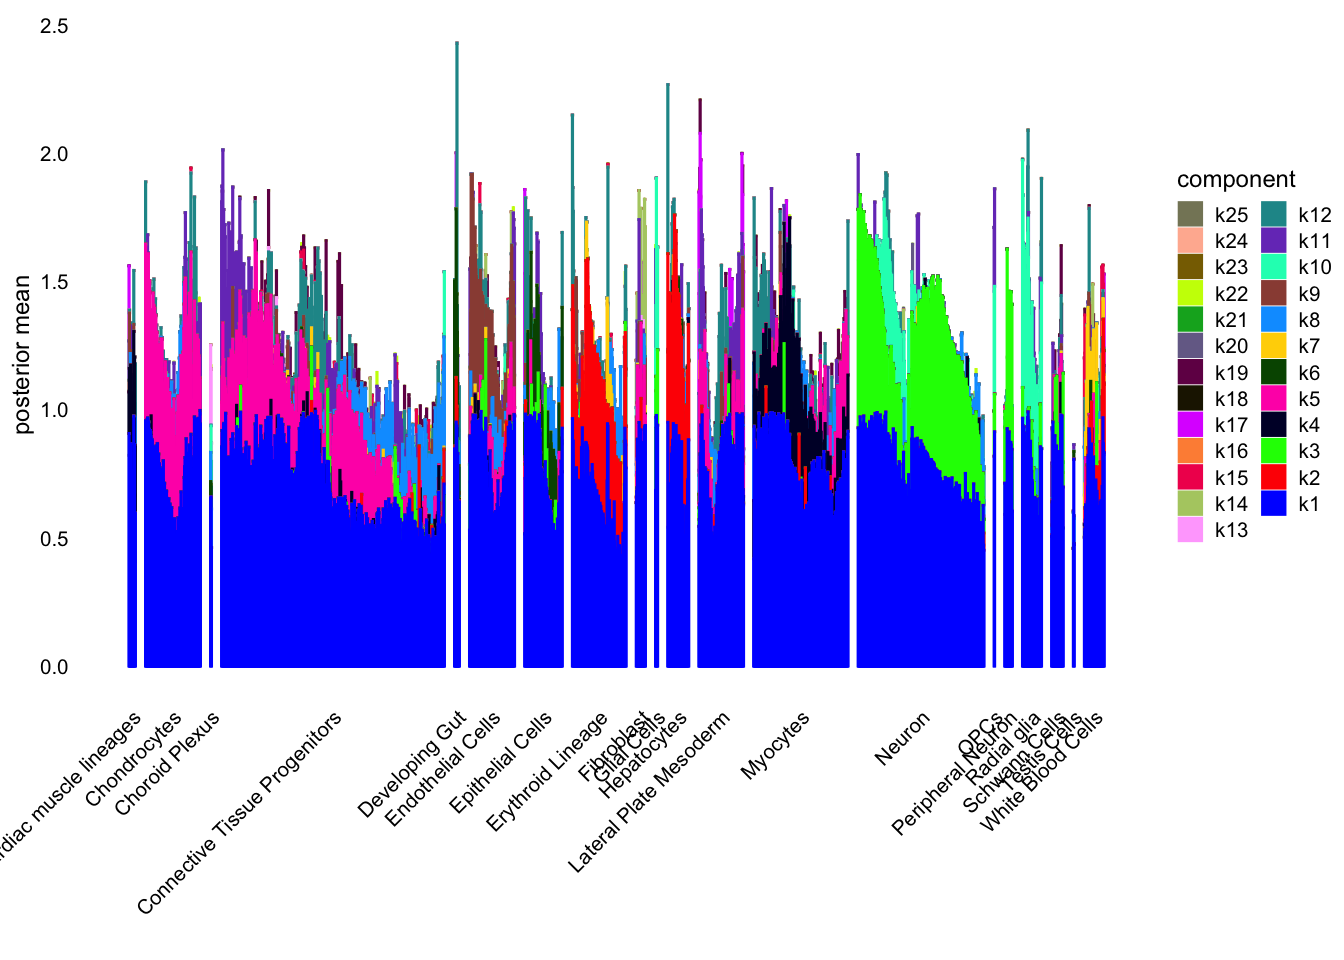
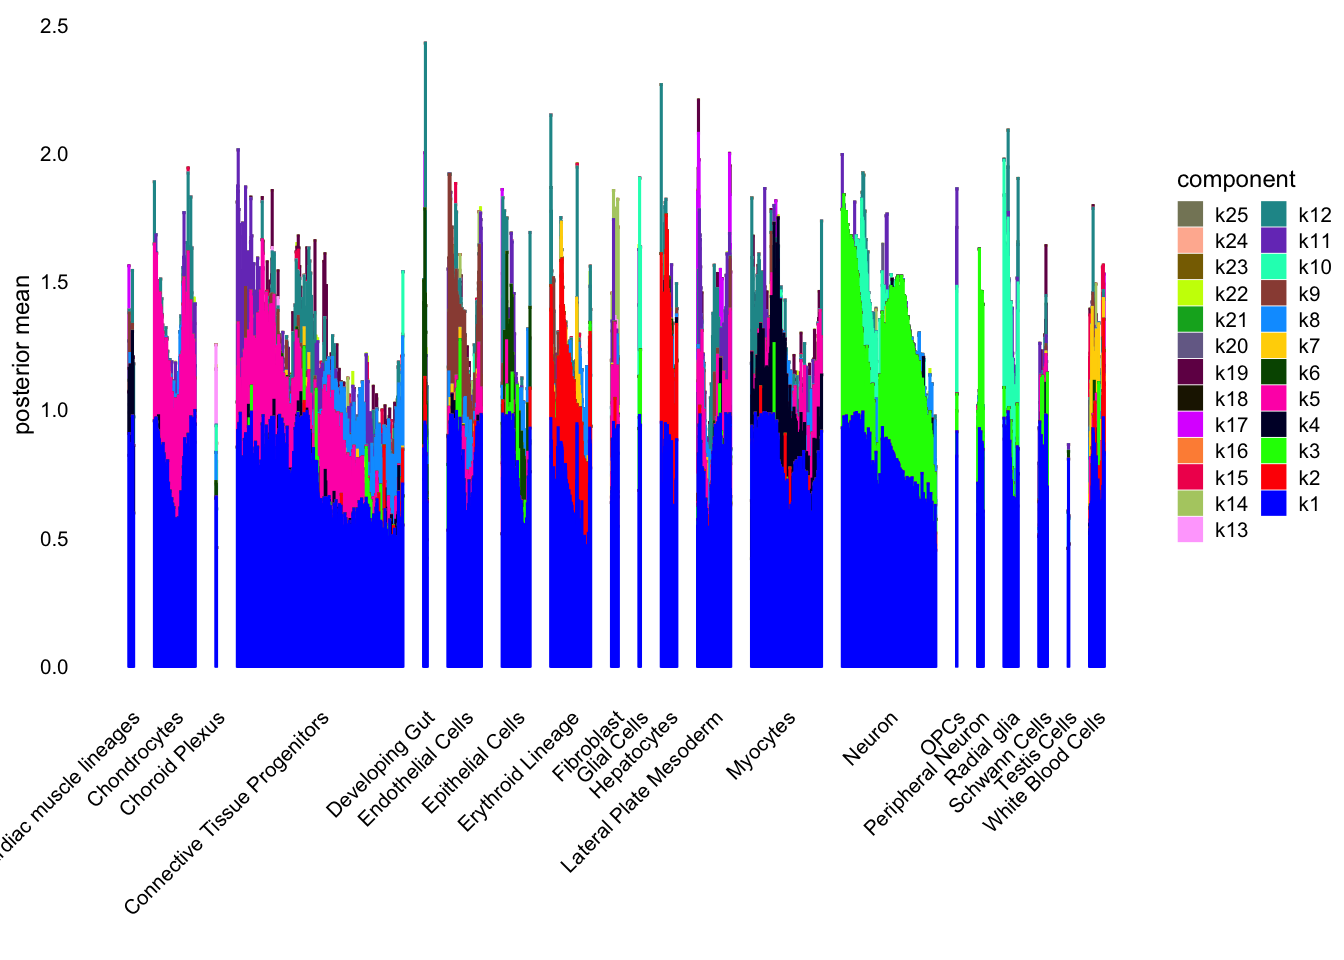
Build site.

diff --git a/docs/mouse_embryo.html b/docs/mouse_embryo.html
@@ -303,7 +303,7 @@ class="glyphicon glyphicon-ok text-success" aria-hidden="true"></span>
 <div class="tab-content">
 <div id="summary" class="tab-pane fade in active">
 <p>
-<strong>Last updated:</strong> 2024-11-15
+<strong>Last updated:</strong> 2024-11-18
 </p>
 <p>
 <strong>Checks:</strong> <span
@@ -435,15 +435,15 @@ project makes it easier to run your code on other machines.</p>
 <div class="panel panel-default">
 <div class="panel-heading">
 <p class="panel-title">
-<a data-toggle="collapse" data-parent="#workflowr-checks" href="#strongRepositoryversionstrongahrefhttpsgithubcomstephenslabsinglecelljamboreetree074ea5c2fff7ebc1e20caa84eaf044767a035ab7targetblank074ea5ca">
+<a data-toggle="collapse" data-parent="#workflowr-checks" href="#strongRepositoryversionstrongahrefhttpsgithubcomstephenslabsinglecelljamboreetreea70fb60a7ec2592fb7a02dfbafd40581573dff31targetblanka70fb60a">
 <span class="glyphicon glyphicon-ok text-success"
 aria-hidden="true"></span> <strong>Repository version:</strong>
-<a href="https://github.com/stephenslab/single-cell-jamboree/tree/074ea5c2fff7ebc1e20caa84eaf044767a035ab7" target="_blank">074ea5c</a>
+<a href="https://github.com/stephenslab/single-cell-jamboree/tree/a70fb60a7ec2592fb7a02dfbafd40581573dff31" target="_blank">a70fb60</a>
 </a>
 </p>
 </div>
 <div
[2 lines of base64/hex data omitted]
 class="panel-collapse collapse">
 <div class="panel-body">
 <p>
@@ -453,7 +453,7 @@ reproducibility.
 </p>
 <p>
 The results in this page were generated with repository version
-<a href="https://github.com/stephenslab/single-cell-jamboree/tree/074ea5c2fff7ebc1e20caa84eaf044767a035ab7" target="_blank">074ea5c</a>.
+<a href="https://github.com/stephenslab/single-cell-jamboree/tree/a70fb60a7ec2592fb7a02dfbafd40581573dff31" target="_blank">a70fb60</a>.
 See the <em>Past versions</em> tab to see a history of the changes made
 to the R Markdown and HTML files.
 </p>
@@ -468,6 +468,7 @@ were generated:
 </p>
 <pre><code>
 Ignored files:
+    Ignored:    .Rhistory
     Ignored:    .Rproj.user/
 
 Untracked files:
@@ -522,6 +523,40 @@ Message
 </tr>
 </thead>
 <tbody>
+<tr>
+<td>
+Rmd
+</td>
+<td>
+<a href="https://github.com/stephenslab/single-cell-jamboree/blob/a70fb60a7ec2592fb7a02dfbafd40581573dff31/analysis/mouse_embryo.Rmd" target="_blank">a70fb60</a>
+</td>
+<td>
+Ziang Zhang
+</td>
+<td>
+2024-11-18
+</td>
+<td>
+workflowr::wflow_publish("analysis/mouse_embryo.Rmd")
+</td>
+</tr>
+<tr>
+<td>
+html
+</td>
+<td>
+<a href="https://rawcdn.githack.com/stephenslab/single-cell-jamboree/070d27ca300bc5b1d13d24daf0e9169fca6e3994/docs/mouse_embryo.html" target="_blank">070d27c</a>
+</td>
+<td>
+Ziang Zhang
+</td>
+<td>
+2024-11-15
+</td>
+<td>
+Build site.
+</td>
+</tr>
 <tr>
 <td>
 Rmd
@@ -601,6 +636,9 @@ library(RColorBrewer)
 library(Biobase)
 library(ggpubr)
 library(gridExtra)
+library(fastTopics)
+source(&#39;../code/plot_loadings_on_umap.R&#39;)
+source(&quot;../code/Customized_Plots.R&quot;)
 seurat_object &lt;- readRDS(&quot;../data/mouse_embryo/processed_seurat/seurat_object.rds&quot;)
 Y &lt;- t(seurat_object$RNA$data)</code></pre>
 <p>The data contains the UMAP information that we can directly use for
@@ -608,8 +646,7 @@ visualization, and compare with the “anatomical annotation” and the
 “cluster label” in <a
 href="https://www.science.org/doi/10.1126/science.abb9536">Srivatsan et
 al, 2021</a>.</p>
-<pre class="r"><code>source(&quot;../code/Customized_Plots.R&quot;)
-umap_original_embeddings &lt;- cbind(seurat_object$umap1, seurat_object$umap2)
+<pre class="r"><code>umap_original_embeddings &lt;- cbind(seurat_object$umap1, seurat_object$umap2)
 p1 &lt;- DimPlotSagnik(umap_original_embeddings, group.by = seurat_object$anatomical_annotation, pt.size = 1) +
   theme(plot.title = element_text(hjust = 0.5)) +
   ggtitle(&quot;UMAP by Anatomical Annotation&quot;)
@@ -690,7 +727,7 @@ plot(flashier_fit_nn,
      plot_type = &quot;structure&quot;,
      pm_which = &quot;loadings&quot;, 
      pm_groups = seurat_object$final_cluster_label,
-     bins = 20, gap = 25)</code></pre>
+     bins = 20, gap = 70)</code></pre>
 <p><img src="figure/mouse_embryo.Rmd/unnamed-chunk-5-1.png" width="672" style="display: block; margin: auto;" /></p>
 <p>
 <button type="button" class="btn btn-default btn-xs btn-workflowr btn-workflowr-fig" data-toggle="collapse" data-target="#fig-unnamed-chunk-5-1">
@@ -750,7 +787,7 @@ plot(flashier_fit_semi,
      plot_type = &quot;structure&quot;,
      pm_which = &quot;loadings&quot;, 
      pm_groups = seurat_object$final_cluster_label,
-     bins = 20, gap = 25)</code></pre>
+     bins = 20, gap = 70)</code></pre>
 <p><img src="figure/mouse_embryo.Rmd/unnamed-chunk-7-1.png" width="672" style="display: block; margin: auto;" /></p>
 <p>
 <button type="button" class="btn btn-default btn-xs btn-workflowr btn-workflowr-fig" data-toggle="collapse" data-target="#fig-unnamed-chunk-7-1">
@@ -790,8 +827,8 @@ Ziang Zhang
 </div>
 </div>
 </div>
-<div id="gbcd" class="section level3">
-<h3>GBCD</h3>
+<div id="gb-semi-non-negative-ebmf" class="section level3">
+<h3>GB Semi Non-Negative EBMF</h3>
 <pre class="r"><code>ebnm_fn_list &lt;- list()
 ebnm_fn_list[[1]] &lt;- flash_ebnm(
   prior_family = &quot;generalized_binary&quot;
@@ -810,7 +847,7 @@ plot(flashier_fit_gbcd,
      plot_type = &quot;structure&quot;,
      pm_which = &quot;loadings&quot;, 
      pm_groups = seurat_object$final_cluster_label,
-     bins = 20, gap = 25)</code></pre>
+     bins = 20, gap = 70)</code></pre>
 <p><img src="figure/mouse_embryo.Rmd/unnamed-chunk-9-1.png" width="672" style="display: block; margin: auto;" /></p>
 <p>
 <button type="button" class="btn btn-default btn-xs btn-workflowr btn-workflowr-fig" data-toggle="collapse" data-target="#fig-unnamed-chunk-9-1">
@@ -850,15 +887,94 @@ Ziang Zhang
 </div>
 </div>
 </div>
+<div id="gbcd" class="section level3">
+<h3>GBCD</h3>
+<pre class="r"><code>res.gbcd &lt;- fit_gbcd(Y = Y, Kmax = 25, maxiter1 = 100,
+                     maxiter2 = 50, maxiter3 = 50, 
+                     prior = flash_ebnm(prior_family = &quot;generalized_binary&quot;,
+                                        scale = 0.04))
+saveRDS(res.gbcd, &quot;../output/mouse_embryo/res.gbcd.rds&quot;)</code></pre>
+</div>
 </div>
 <div id="trying-topic-models" class="section level2">
 <h2>Trying Topic Models</h2>
 <p>Then, let’s try fitting a topic model to this dataset using
 <code>FastTopics</code>.</p>
-<pre class="r"><code>library(fastTopics)
-fasttopics_fit &lt;- fit_topic_model(Y, k = 25)</code></pre>
-<p>(This requires larger amount of RAM than I expected… Will do this on
-the server and add the results later.)</p>
+<pre class="r"><code>fasttopics_fit &lt;- fit_topic_model(Y, k = 25)</code></pre>
+<p><img src="figure/mouse_embryo.Rmd/unnamed-chunk-14-1.png" width="672" style="display: block; margin: auto;" /></p>
+</div>
+<div id="summarize-structures-from-loadings" class="section level2">
+<h2>Summarize Structures from Loadings</h2>
+<p>There are some interesting structures of the loading based on the
+result of EBMF and FastTopics, that add new insights to the original
+UMAP visualization.</p>
+<div id="non-negative-ebmf-1" class="section level3">
+<h3>Non-negative EBMF</h3>
+<p>First, based on the non-negative EBMF result, there are some factors
+that are shared across multiple cell types. For example, the factors
+<span class="math inline">\(k10\)</span> and <span
+class="math inline">\(k3\)</span> are shared across multiple types of
+neurons and glial cells. The factor <span
+class="math inline">\(k5\)</span> is shared across Chondrocytes and
+Connective Tissue Progenitors. The factor <span
+class="math inline">\(k2\)</span> is shared across Erythroid Progenitors
+and Hepatocytes. On the other hand, there are also factors that are more
+specific to certain cell types, such as <span
+class="math inline">\(k9\)</span> for Endothelial Cells and <span
+class="math inline">\(k7\)</span> for White Blood Cells.</p>
+<p>Let’s take a look at how the UMAF plot looks if we color each cell
+based on its composition of these factors.</p>
+<p><img src="figure/mouse_embryo.Rmd/unnamed-chunk-15-1.png" width="672" style="display: block; margin: auto;" /></p>
+</div>
+<div id="semi-negative-ebmf" class="section level3">
+<h3>Semi-negative EBMF</h3>
+<p>The loadings from the semi-negative EBMF are more diverse, where each
+cell is composed of a larger number of factors. However, there are still
+both “unique” factor and “shared” factors across different cell
+types.</p>
+<p>For example, the factor <span class="math inline">\(k4\)</span> is
+shared across multiple types of neurons and glial cells. The factor
+<span class="math inline">\(k2\)</span> is shared across Erythroid
+Progenitors and Hepatocytes. The factor <span
+class="math inline">\(k3\)</span> are “mostly” unique to Myocytes and
+Cardiac Muscle, and <span class="math inline">\(k12\)</span> is unique
+to Chondrocytes.</p>
+<p><img src="figure/mouse_embryo.Rmd/unnamed-chunk-16-1.png" width="672" style="display: block; margin: auto;" /></p>
+</div>
+<div id="fasttopics" class="section level3">
+<h3>FastTopics</h3>
+<p>The result from FastTopics looks quite similar to the semi-negative
+EBMF, where each cell is composed of a larger number of factors.</p>
+<p>There are shared factors like <span
+class="math inline">\(k13\)</span> for Erythroid Progenitors and
+Hepatocytes, and <span class="math inline">\(k10\)</span> for Epithelial
+Cells and Developing Gut, as well as unique factors like <span
+class="math inline">\(k3\)</span> for Hepatocytes and <span
+class="math inline">\(k8\)</span> for White Blood Cells.</p>
+<p><img src="figure/mouse_embryo.Rmd/unnamed-chunk-17-1.png" width="672" style="display: block; margin: auto;" /></p>
+</div>
+</div>
+<div id="compare-these-methods" class="section level2">
+<h2>Compare these methods</h2>
+<ul>
+<li><p>The non-negative EBMF provides a kind of “cleaner composition” of
+each cell, where each cell is mostly composed of one base line factor
+and another factor that is ” kind of specific” to the cell type. This in
+a way demonstrates the advantage of the part-based representation (plus
+sparsity).</p></li>
+<li><p>The semi non-negative EBMF provides a more “diverse” composition
+of each cell, where each cell is composed of a base line factor and
+multiple other factors that may appear in different cell types. The
+compensate of the “diversity” is the computation of this problem tends
+to be a bit more stable than the non-negative EBMF.</p></li>
+<li><p>The FastTopics also provides a kind of diverse composition of
+each cell, where each cell is composed of multiple factors. This might
+be due to there is no sparsity constraint in the FastTopics
+model.</p></li>
+<li><p>Overall, they all found some quite interesting structures (shared
+or unique) that are not obvious from the original UMAP
+visualization.</p></li>
+</ul>
 <br>
 <p>
 <button type="button" class="btn btn-default btn-workflowr btn-workflowr-sessioninfo" data-toggle="collapse" data-target="#workflowr-sessioninfo" style="display: block;">
@@ -886,11 +1002,12 @@ attached base packages:
 [1] stats     graphics  grDevices utils     datasets  methods   base     
 
 other attached packages:
- [1] gridExtra_2.3       ggpubr_0.6.0        Biobase_2.62.0     
- [4] BiocGenerics_0.48.1 RColorBrewer_1.1-3  cowplot_1.1.3      
- [7] patchwork_1.3.0     ggplot2_3.5.1       flashier_1.0.54    
-[10] ebnm_1.1-34         data.table_1.16.2   Matrix_1.6-4       
-[13] Seurat_5.1.0        SeuratObject_5.0.2  sp_2.1-4           
+ [1] fastTopics_0.6-192  gridExtra_2.3       ggpubr_0.6.0       
+ [4] Biobase_2.62.0      BiocGenerics_0.48.1 RColorBrewer_1.1-3 
+ [7] cowplot_1.1.3       patchwork_1.3.0     ggplot2_3.5.1      
+[10] flashier_1.0.54     ebnm_1.1-34         data.table_1.16.2  
+[13] Matrix_1.6-4        Seurat_5.1.0        SeuratObject_5.0.2 
+[16] sp_2.1-4           
 
 loaded via a namespace (and not attached):
   [1] RcppAnnoy_0.0.22       splines_4.3.1          later_1.3.2           
@@ -903,44 +1020,44 @@ loaded via a namespace (and not attached):
  [22] sctransform_0.4.1      spam_2.11-0            spatstat.sparse_3.1-0 
  [25] reticulate_1.39.0      pbapply_1.7-2          abind_1.4-8           
  [28] Rtsne_0.17             quadprog_1.5-8         purrr_1.0.2           
- [31] git2r_0.33.0           fastTopics_0.6-192     ggrepel_0.9.6         
- [34] irlba_2.3.5.1          listenv_0.9.1          spatstat.utils_3.1-0  
- [37] goftest_1.2-3          RSpectra_0.16-2        spatstat.random_3.3-2 
- [40] fitdistrplus_1.2-1     parallelly_1.38.0      leiden_0.4.3.1        
- [43] codetools_0.2-20       tidyselect_1.2.1       farver_2.1.2          
- [46] matrixStats_1.4.1      spatstat.explore_3.3-3 jsonlite_1.8.9        
- [49] progressr_0.14.0       Formula_1.2-5          ggridges_0.5.6        
- [52] survival_3.7-0         tools_4.3.1            progress_1.2.3        
- [55] ica_1.0-3              Rcpp_1.0.13            glue_1.8.0            
- [58] xfun_0.48              dplyr_1.1.4            withr_3.0.1           
- [61] fastmap_1.2.0          fansi_1.0.6            digest_0.6.37         
- [64] truncnorm_1.0-9        R6_2.5.1               mime_0.12             
- [67] colorspace_2.1-1       scattermore_1.2        gtools_3.9.5          
- [70] tensor_1.5             spatstat.data_3.1-2    RhpcBLASctl_0.23-42   
- [73] utf8_1.2.4             tidyr_1.3.1            generics_0.1.3        
- [76] prettyunits_1.2.0      httr_1.4.7             htmlwidgets_1.6.4     
- [79] scatterplot3d_0.3-44   deconvolveR_1.2-1      whisker_0.4.1         
- [82] uwot_0.1.16            pkgconfig_2.0.3        gtable_0.3.5          
- [85] workflowr_1.7.1        lmtest_0.9-40          htmltools_0.5.8.1     
- [88] carData_3.0-5          dotCall64_1.2          horseshoe_0.2.0       
- [91] scales_1.3.0           png_0.1-8              spatstat.univar_3.0-1 
- [94] ashr_2.2-66            knitr_1.48             rstudioapi_0.16.0     
- [97] reshape2_1.4.4         nlme_3.1-166           cachem_1.1.0          
-[100] zoo_1.8-12             Polychrome_1.5.1       stringr_1.5.1         
-[103] KernSmooth_2.23-24     parallel_4.3.1         miniUI_0.1.1.1        
-[106] softImpute_1.4-1       pillar_1.9.0           grid_4.3.1            
-[109] vctrs_0.6.5            RANN_2.6.2             promises_1.3.0        
-[112] car_3.1-3              xtable_1.8-4           cluster_2.1.6         
-[115] evaluate_1.0.1         invgamma_1.1           cli_3.6.3             
-[118] compiler_4.3.1         rlang_1.1.4            crayon_1.5.3          
-[121] SQUAREM_2021.1         future.apply_1.11.2    ggsignif_0.6.4        
-[124] labeling_0.4.3         plyr_1.8.9             fs_1.6.4              
-[127] stringi_1.8.4          viridisLite_0.4.2      deldir_2.0-4          
-[130] munsell_0.5.1          lazyeval_0.2.2         spatstat.geom_3.3-3   
-[133] RcppHNSW_0.6.0         hms_1.1.3              future_1.34.0         
-[136] shiny_1.9.1            highr_0.11             trust_0.1-8           
-[139] ROCR_1.0-11            igraph_2.1.1           broom_1.0.7           
-[142] RcppParallel_5.1.9     bslib_0.8.0           </code></pre>
+ [31] git2r_0.33.0           ggrepel_0.9.6          irlba_2.3.5.1         
+ [34] listenv_0.9.1          spatstat.utils_3.1-0   goftest_1.2-3         
+ [37] RSpectra_0.16-2        spatstat.random_3.3-2  fitdistrplus_1.2-1    
+ [40] parallelly_1.38.0      leiden_0.4.3.1         codetools_0.2-20      
+ [43] tidyselect_1.2.1       farver_2.1.2           matrixStats_1.4.1     
+ [46] spatstat.explore_3.3-3 jsonlite_1.8.9         progressr_0.14.0      
+ [49] Formula_1.2-5          ggridges_0.5.6         survival_3.7-0        
+ [52] tools_4.3.1            progress_1.2.3         ica_1.0-3             
+ [55] Rcpp_1.0.13-1          glue_1.8.0             xfun_0.48             
+ [58] dplyr_1.1.4            withr_3.0.2            fastmap_1.2.0         
+ [61] fansi_1.0.6            digest_0.6.37          truncnorm_1.0-9       
+ [64] R6_2.5.1               mime_0.12              colorspace_2.1-1      
+ [67] scattermore_1.2        gtools_3.9.5           tensor_1.5            
+ [70] spatstat.data_3.1-2    RhpcBLASctl_0.23-42    utf8_1.2.4            
+ [73] tidyr_1.3.1            generics_0.1.3         prettyunits_1.2.0     
+ [76] httr_1.4.7             htmlwidgets_1.6.4      scatterplot3d_0.3-44  
+ [79] deconvolveR_1.2-1      whisker_0.4.1          uwot_0.1.16           
+ [82] pkgconfig_2.0.3        gtable_0.3.6           workflowr_1.7.1       
+ [85] lmtest_0.9-40          htmltools_0.5.8.1      carData_3.0-5         
+ [88] dotCall64_1.2          horseshoe_0.2.0        scales_1.3.0          
+ [91] png_0.1-8              spatstat.univar_3.0-1  ashr_2.2-66           
+ [94] knitr_1.48             rstudioapi_0.16.0      reshape2_1.4.4        
+ [97] nlme_3.1-166           cachem_1.1.0           zoo_1.8-12            
+[100] Polychrome_1.5.1       stringr_1.5.1          KernSmooth_2.23-24    
+[103] parallel_4.3.1         miniUI_0.1.1.1         softImpute_1.4-1      
+[106] pillar_1.9.0           grid_4.3.1             vctrs_0.6.5           
+[109] RANN_2.6.2             promises_1.3.0         car_3.1-3             
+[112] xtable_1.8-4           cluster_2.1.6          evaluate_1.0.1        
+[115] invgamma_1.1           cli_3.6.3              compiler_4.3.1        
+[118] rlang_1.1.4            crayon_1.5.3           SQUAREM_2021.1        
+[121] future.apply_1.11.2    ggsignif_0.6.4         labeling_0.4.3        
+[124] plyr_1.8.9             fs_1.6.4               stringi_1.8.4         
+[127] viridisLite_0.4.2      deldir_2.0-4           munsell_0.5.1         
+[130] lazyeval_0.2.2         spatstat.geom_3.3-3    RcppHNSW_0.6.0        
+[133] hms_1.1.3              future_1.34.0          shiny_1.9.1           
+[136] highr_0.11             trust_0.1-8            ROCR_1.0-11           
+[139] igraph_2.1.1           broom_1.0.7            RcppParallel_5.1.9    
+[142] bslib_0.8.0           </code></pre>
 </div>
 </div>
 </div>
